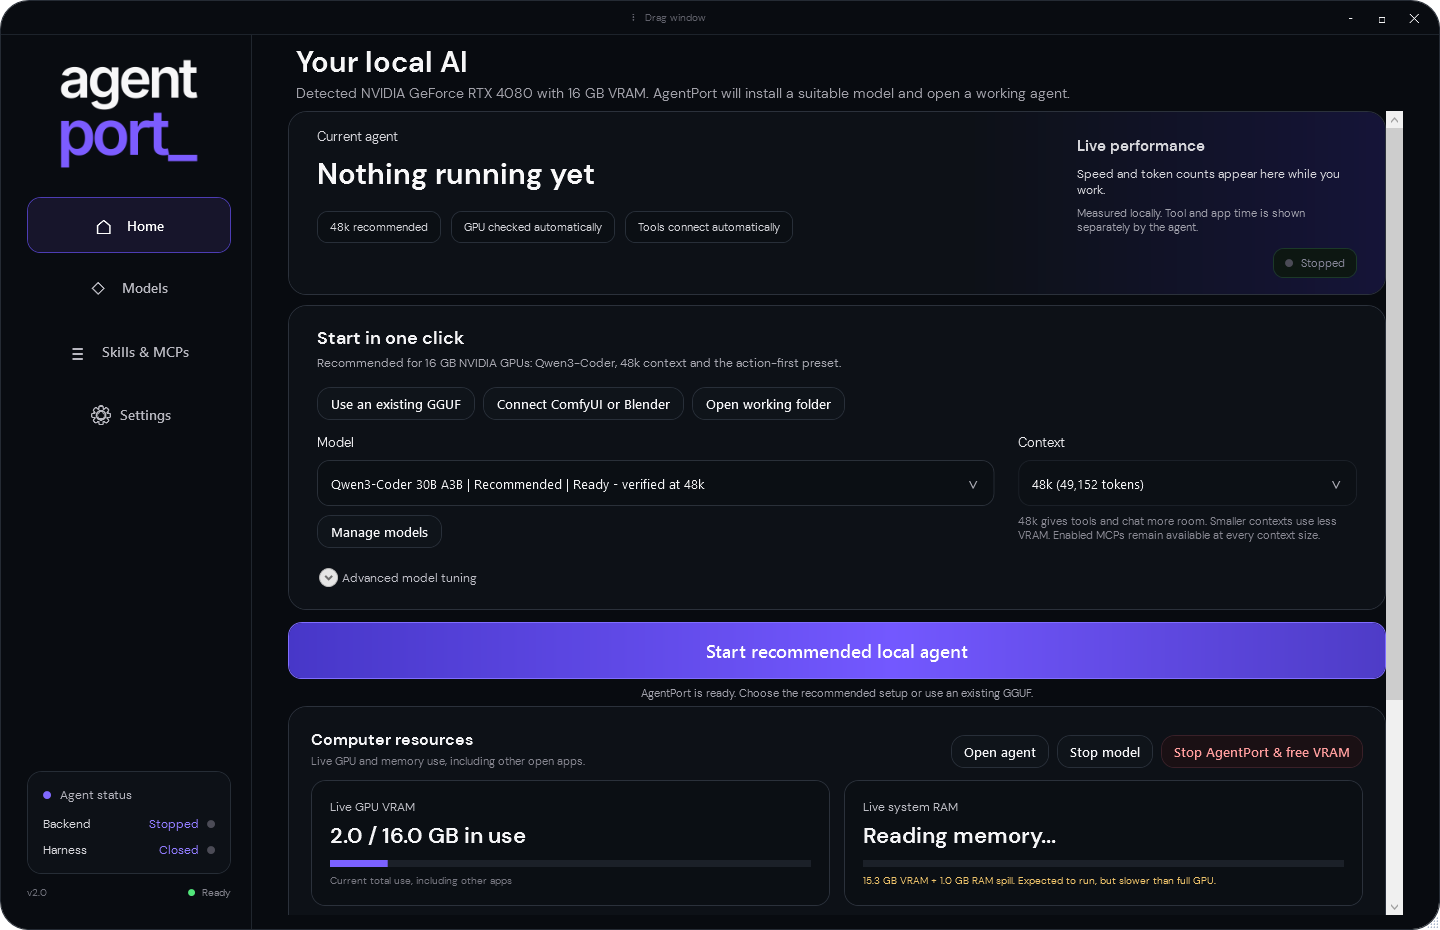
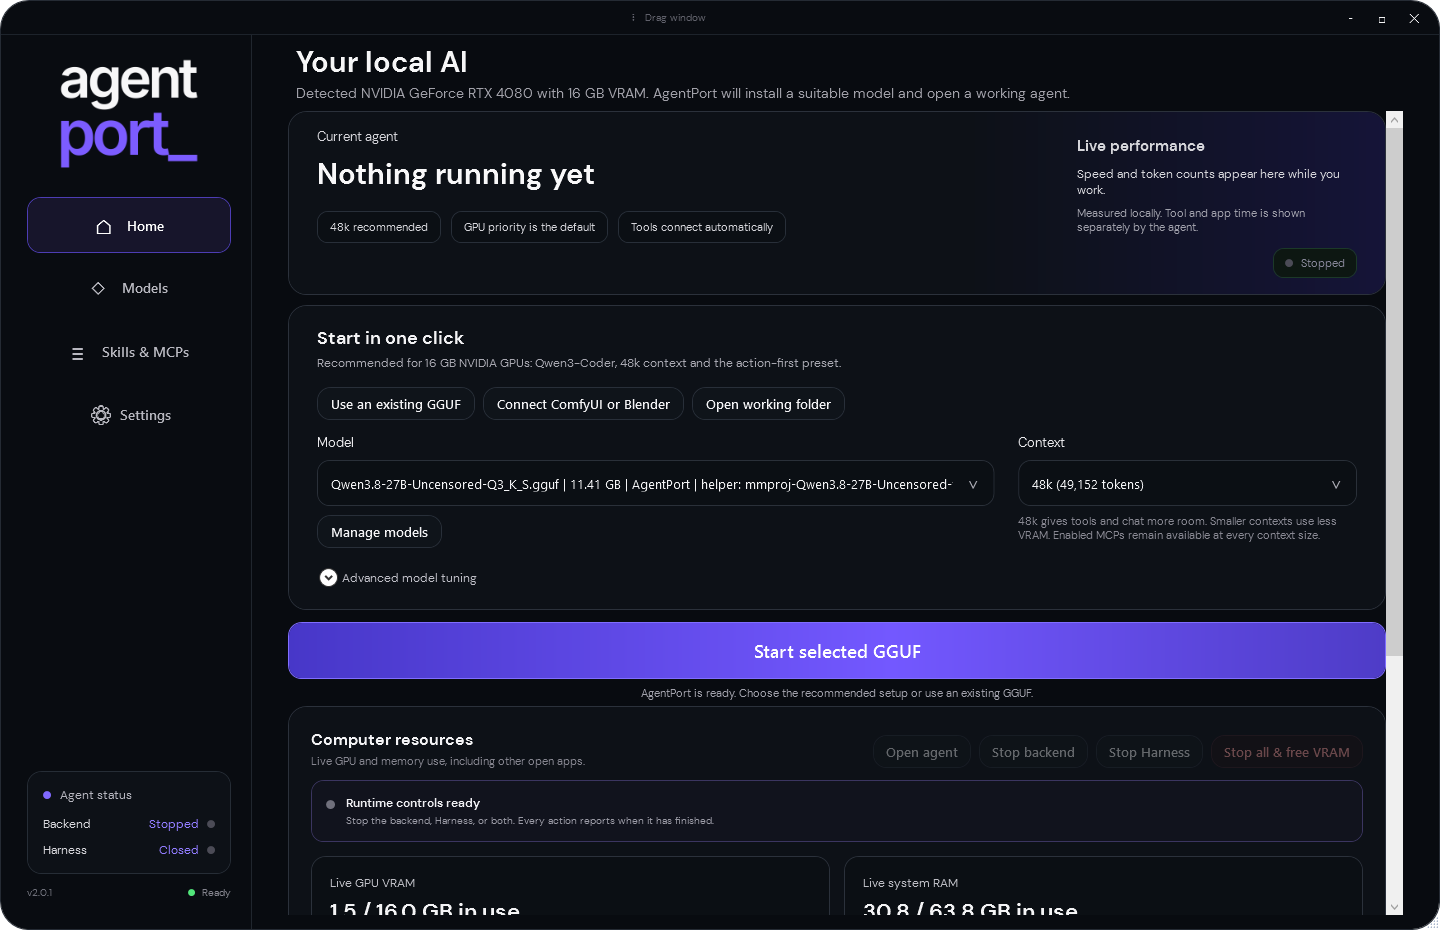
Improve runtime controls and GPU visibility

diff --git a/src/main.go b/src/main.go
@@ -14,7 +14,7 @@ import (
 var files embed.FS
 
 func main() {
-	root := filepath.Join(os.Getenv("LOCALAPPDATA"), "AgentPort", "v2.0.0")
+	root := filepath.Join(os.Getenv("LOCALAPPDATA"), "AgentPort", "v2.0.1")
 	err := fs.WalkDir(files, ".", func(path string, entry fs.DirEntry, walkErr error) error {
 		if walkErr != nil {
 			return walkErr

diff --git a/README.md b/README.md
@@ -28,6 +28,7 @@ AgentPort turns a compatible Windows PC into a private local AI workstation. It 
 - Generic MCP JSON import, with no special folder required
 - Existing GGUF discovery for users who already have models
 - Reliable stop, restart, switching and VRAM release controls
+- Separate **Stop backend**, **Stop Harness**, and **Stop all & free VRAM** actions with visible progress
 
 ## Quick start
 
@@ -65,6 +66,8 @@ Skills and MCPs are kept separate: a skill supplies instructions, while an MCP s
 - Internet access during initial setup
 
 Exact performance and context capacity depend on GPU memory, system RAM and other open GPU applications. The published end-to-end results were measured on Windows with an RTX 4080 16 GB and 64 GB RAM.
+
+AgentPort requests maximum safe GPU offload by default. GGUF model files are memory-mapped, so Windows can show substantial system RAM use even while model layers run on the GPU. AgentPort 2.0.1 shows the reported GPU layer placement directly on Home when available.
 
 ## Existing models and advanced options
 

diff --git a/docs/v2.0.1.md b/docs/v2.0.1.md
@@ -1,0 +1,13 @@
+# AgentPort 2.0.1
+
+This update makes runtime state and stop actions explicit.
+
+- Separate **Stop backend** and **Stop Harness** controls on Home
+- A combined **Stop all & free VRAM** action
+- Immediate busy state followed by a clear success or error result
+- Clear explanation of what remains running after each action
+- Reported GPU layer placement shown when the backend exposes it
+- Clear explanation of GGUF memory mapping and system RAM use
+- Maximum safe GPU offload remains the default
+
+The packaged EXE passed the Windows launch and interface render check on the verified RTX 4080 16 GB system.
